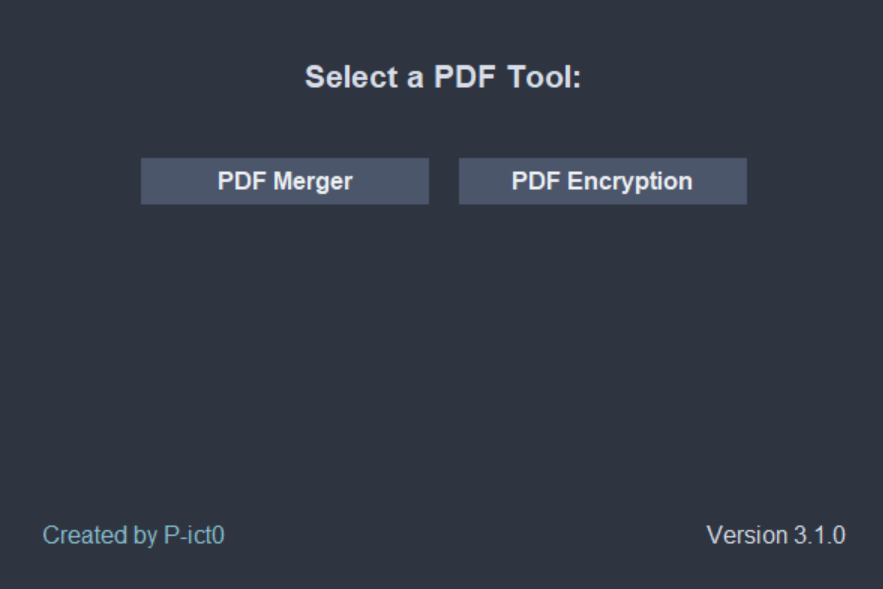
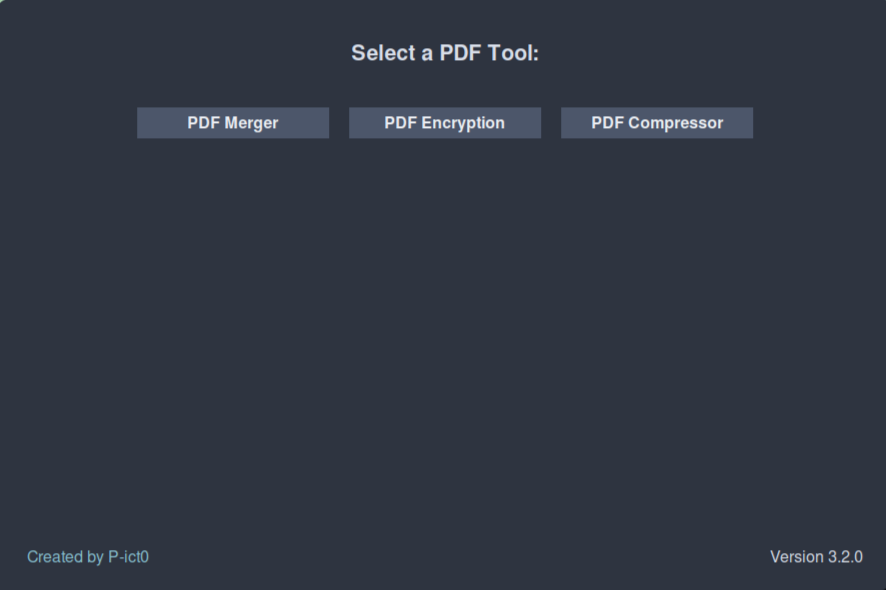
Add compressor README (#18)
* Delete media/app.png

* Add images

* (README) Add compressor

diff --git a/README.md b/README.md
@@ -43,6 +43,7 @@ Right now, the app supports the following features:
 
 - **PDF Merger**: Merge multiple PDF files into a single PDF file.
 - **PDF Encryptor**: Encrypt a PDF file with a password.
+- **PDF Compressor**: Compress your PDFs.
 
 # 🖼 Screenshots
 
@@ -57,6 +58,10 @@ Right now, the app supports the following features:
 ## Encryptor
 
 ![Encrypt PDF Demo](./media/encryptor.png)
+
+## Compressor
+
+![Compress PDF Demo](./media/compressor.png)
 
 # 📦 Installation
 
